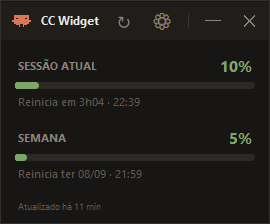
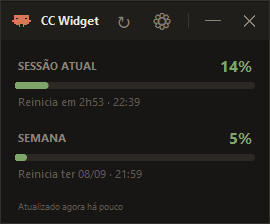
Efeito de carregamento e mais folga no circulo
Ao consultar o /usage a interface passa a mostrar atividade: a seta vira um
spinner (o tkinter nao rotaciona texto, entao a rotacao vem de uma sequencia de
glifos), as barras trocam o valor por um segmento correndo na pista e o anel do
modo mini gira. Os percentuais saem de cena durante a consulta porque deixaram
de valer no instante em que ela comecou.

No caminho apareceu um defeito que existia antes deste commit e so ficou
visivel com a animacao: a thread de trabalho chamava `self.after` para
redesenhar ao terminar. Tkinter nao e seguro para uso concorrente e esse
callback se perdia, deixando a interface presa -- botao girando e valores em
reticencias -- mesmo com os dados novos ja gravados. Agora a thread apenas
baixa `_cli_busy`, e quem encerra o carregamento e o proprio laco da animacao,
na thread da interface. Verificado ponta a ponta: 13% -> carregando -> 14%.

O circulo cresceu de 64 para 88px, com o mascote no dobro do tamanho e folga
nas duas pontas: ele nao encosta mais no anel, nem a hora na base.

diff --git a/ccwidget/ui.py b/ccwidget/ui.py
@@ -30,6 +30,7 @@ from .theme import (
     P,
     level_color,
     render_bar,
+    render_bar_loading,
     render_mascot,
     render_ring,
     set_theme,
@@ -37,9 +38,13 @@ from .theme import (
 
 PAD = 14
 WIDTH = 268
-RING_SIZE = 64
+RING_SIZE = 88
 
 MODES = ("mini", "panel")
+# Quadros do spinner: o tkinter nao rotaciona texto, entao a rotacao vem de
+# uma sequencia de glifos.
+SPINNER = "⠋⠙⠹⠸⠼⠴⠦⠧⠇⠏"
+SPIN_MS = 70
 DAYS = ("seg", "ter", "qua", "qui", "sex", "sáb", "dom")
 
 
@@ -93,19 +98,27 @@ class Ring(tk.Canvas):
         self._image = render_ring(size, None, P["ok"])
         self._image_id = self.create_image(0, 0, image=self._image, anchor="nw")
 
-        # Alturas em fracao do diametro. O percentual e a hora ficam separados
-        # por 31% -- os 19% que davam o espacamento minimo mais 12% de folga,
-        # para a hora nao encostar no numero grande.
-        self._mascot = render_mascot(1, bg=P["bg"])
-        self.create_image(size / 2, size * 0.24, image=self._mascot, anchor="center")
+        # Alturas em fracao do diametro, com folga nas duas pontas: o mascote
+        # nao encosta no anel e a hora nao encosta na base.
+        self._mascot = render_mascot(2, bg=P["bg"])
+        self.create_image(size / 2, size * 0.30, image=self._mascot, anchor="center")
         self._value = self.create_text(
-            size / 2, size * 0.47, text="--", fill=P["fg"],
-            font=("Segoe UI", 12, "bold"),
+            size / 2, size * 0.555, text="--", fill=P["fg"],
+            font=("Segoe UI", 14, "bold"),
         )
         self._reset = self.create_text(
-            size / 2, size * 0.78, text="", fill=P["fg_faint"],
-            font=("Segoe UI", 7),
+            size / 2, size * 0.765, text="", fill=P["fg_faint"],
+            font=("Segoe UI", 8),
         )
+
+    def set_loading(self, phase: float) -> None:
+        """Um quarto de anel girando, no lugar do arco de progresso."""
+        self._image = render_ring(
+            self.size, 25, P["accent"], start=phase % 1.0
+        )
+        self.itemconfigure(self._image_id, image=self._image)
+        self.itemconfigure(self._value, text="···", fill=P["fg_faint"])
+        self.itemconfigure(self._reset, text="")
 
     def set(self, pct: float | None, reset_text: str = "") -> None:
         color = P["ok"] if pct is None else level_color(pct)
@@ -139,6 +152,13 @@ class Bar(tk.Canvas):
         )
         self.itemconfigure(self._image_id, image=self._image)
 
+    def set_loading(self, phase: float) -> None:
+        """Segmento correndo na pista, enquanto o valor novo nao chega."""
+        self._image = render_bar_loading(
+            self.WIDTH, self.HEIGHT, phase, P["accent"]
+        )
+        self.itemconfigure(self._image_id, image=self._image)
+
 
 class Meter(tk.Frame):
     """Titulo + percentual + barra + legenda: o bloco de uma janela de limite."""
@@ -169,6 +189,10 @@ class Meter(tk.Frame):
         )
         self.caption.pack(fill="x")
 
+    def set_loading(self, phase: float) -> None:
+        self.value.configure(text="···", fg=P["fg_faint"])
+        self.bar.set_loading(phase)
+
     def update_values(self, pct: float | None, caption: str) -> None:
         if pct is None:
             self.value.configure(text="--", fg=P["fg_faint"])
@@ -194,6 +218,7 @@ class UsageWidget(tk.Tk):
         self._cli_busy = False
         self._cli_error: str | None = None
         self._next_usage_at: float | None = None
+        self._spin_frame = 0
 
         self._setup_window()
         self._build()
@@ -526,8 +551,41 @@ class UsageWidget(tk.Tk):
             return
         self._cli_busy = True
         self._cli_error = None
-        self._render_footer()
+        self._spin_frame = 0
+        self._animate_loading()
         threading.Thread(target=self._usage_cli_worker, daemon=True).start()
+
+    def _animate_loading(self) -> None:
+        """Enquanto o /usage responde: seta girando e barras indeterminadas.
+
+        A consulta leva alguns segundos, e sem sinal de atividade o clique no
+        botao parece nao ter feito nada. Os valores antigos saem de cena porque
+        deixaram de valer no instante em que a consulta comecou.
+
+        Este laco tambem e quem encerra o carregamento. A thread de trabalho
+        apenas baixa `_cli_busy`: tkinter nao e seguro para uso concorrente, e
+        agendar a volta de la deixava a interface presa no estado de carregando
+        quando o callback se perdia.
+        """
+        if not self._cli_busy:
+            self.refresh_btn.configure(text="↻", fg=P["fg_dim"])
+            self._refresh_now()
+            return
+
+        self._spin_frame += 1
+        phase = (self._spin_frame % 40) / 40
+        self.refresh_btn.configure(
+            text=SPINNER[self._spin_frame % len(SPINNER)], fg=P["accent"]
+        )
+
+        if self.mode == "mini":
+            self.ring.set_loading(phase)
+        else:
+            self.session_meter.set_loading(phase)
+            self.week_meter.set_loading((phase + 0.5) % 1.0)
+            self._render_footer()
+
+        self.after(SPIN_MS, self._animate_loading)
 
     def _usage_cli_worker(self) -> None:
         from .usage_cli import refresh_state
@@ -537,14 +595,13 @@ class UsageWidget(tk.Tk):
         except Exception as exc:
             self._cli_error = str(exc)
         finally:
+            # So isto: quem redesenha e `_animate_loading`, na thread da
+            # interface. Nada de tocar em widgets a partir daqui.
             self._cli_busy = False
-        try:
-            self.after(0, self._refresh_now)
-        except RuntimeError:
-            pass  # janela ja fechada
 
     def _refresh_now(self) -> None:
         self.live = read_state()
+        self.refresh_btn.configure(text="↻", fg=P["fg_dim"])
         self._render()
 
     def _render(self) -> None:
@@ -598,11 +655,8 @@ class UsageWidget(tk.Tk):
         idade do numero -- e isso e melhor dito com o tempo do que com rotulo.
         """
         if self._cli_busy:
-            self.refresh_btn.configure(fg=P["accent"])
             self.footer.configure(text="consultando /usage…", fg=P["fg_dim"])
             return
-
-        self.refresh_btn.configure(fg=P["fg_dim"])
 
         if self._cli_error:
             self.footer.configure(text=f"falhou: {self._cli_error}", fg=P["crit"])

diff --git a/ccwidget/theme.py b/ccwidget/theme.py
@@ -178,6 +178,7 @@ def render_ring(
     arc_color: str,
     outside: str = CHROMA,
     samples: int = 4,
+    start: float = 0.0,
 ) -> tk.PhotoImage:
     """Disco com anel de progresso, suavizado.
 
@@ -187,7 +188,10 @@ def render_ring(
     fundo -- todos internos -- sao misturados normalmente.
     """
     pct = -1.0 if pct is None else min(max(pct, 0.0), 100.0)
-    key = ("ring", size, round(pct), arc_color, P["bg"], P["border"], P["ring_track"])
+    key = (
+        "ring", size, round(pct), round(start, 3), arc_color,
+        P["bg"], P["border"], P["ring_track"],
+    )
     cached = _SHAPE_CACHE.get(key)
     if cached is not None:
         return cached
@@ -229,7 +233,10 @@ def render_ring(
                         t = ((math.atan2(dy, dx) + math.pi / 2) % (2 * math.pi)) / (
                             2 * math.pi
                         )
-                        cor = arc if 0 <= t <= limite else track
+                        # O arco corre de `start` por `limite` de volta, o que
+                        # permite gira-lo durante o carregamento.
+                        rel = (t - start) % 1.0
+                        cor = arc if 0 <= rel <= limite else track
                     else:
                         cor = bg
                     acc[0] += cor[0]
@@ -304,6 +311,77 @@ def render_bar(
             cor = _blend(track, bg, n_track / total)
             if n_fill:
                 cor = _blend(fill, _hex_to_rgb(cor), n_fill / n_track)
+            row.append(cor)
+        rows.append("{" + " ".join(row) + "}")
+
+    image = tk.PhotoImage(width=width, height=height)
+    image.put(" ".join(rows))
+    _SHAPE_CACHE[key] = image
+    return image
+
+
+def render_bar_loading(
+    width: int, height: int, phase: float, color: str, samples: int = 3
+) -> tk.PhotoImage:
+    """Barra indeterminada: um segmento que percorre a pista.
+
+    Usada enquanto o `/usage` responde -- o valor antigo ja nao vale, e o novo
+    ainda nao chegou, entao nao ha percentual honesto para mostrar.
+
+    A fase e quantizada antes de virar chave de cache: sao poucas imagens
+    reaproveitadas em todo ciclo da animacao.
+    """
+    import math
+
+    phase = phase % 1.0
+    key = ("barload", width, height, round(phase, 2), color, P["bg"], P["track"])
+    cached = _SHAPE_CACHE.get(key)
+    if cached is not None:
+        return cached
+
+    raio = height / 2
+    seg = width * 0.3
+    # O segmento entra pela esquerda e sai pela direita.
+    x0 = -seg + (width + seg) * phase
+    x1 = x0 + seg
+
+    bg = _hex_to_rgb(P["bg"])
+    track = _hex_to_rgb(P["track"])
+    fill = _hex_to_rgb(color)
+    step = 1.0 / samples
+    total = samples * samples
+
+    def na_pista(x: float, y: float) -> bool:
+        if x < raio:
+            return math.hypot(x - raio, y - raio) <= raio
+        if x > width - raio:
+            return math.hypot(x - (width - raio), y - raio) <= raio
+        return 0 <= x <= width
+
+    rows = []
+    for py in range(height):
+        row = []
+        for px in range(width):
+            n_track = n_seg = 0
+            for sy in range(samples):
+                y = py + (sy + 0.5) * step
+                for sx in range(samples):
+                    x = px + (sx + 0.5) * step
+                    if not na_pista(x, y):
+                        continue
+                    n_track += 1
+                    if x0 <= x <= x1:
+                        n_seg += 1
+            if not n_track:
+                row.append(P["bg"])
+                continue
+            cor = _blend(track, bg, n_track / total)
+            if n_seg:
+                # Desvanece nas pontas do segmento, para o movimento nao piscar.
+                centro = (x0 + x1) / 2
+                dist = abs(px + 0.5 - centro) / (seg / 2)
+                alpha = max(0.0, 1.0 - dist ** 2) * (n_seg / n_track)
+                cor = _blend(fill, _hex_to_rgb(cor), alpha)
             row.append(cor)
         rows.append("{" + " ".join(row) + "}")
 

diff --git a/README.md b/README.md
@@ -24,7 +24,7 @@ Alterne pelo menu da engrenagem `⚙`.
 
 <table>
 <tr>
-<td align="center" width="35%"><img src="docs/minimizado.png" width="64" alt="Modo minimizado"><br><b>Minimizado</b><br><sub>Círculo flutuante com o mascote,<br>o percentual e o tempo que falta<br>para o reset. Um clique abre o painel</sub></td>
+<td align="center" width="35%"><img src="docs/minimizado.png" width="88" alt="Modo minimizado"><br><b>Minimizado</b><br><sub>Círculo flutuante com o mascote,<br>o percentual e o tempo que falta<br>para o reset. Um clique abre o painel</sub></td>
 <td align="center" width="65%"><img src="docs/painel-escuro.png" width="230" alt="Painel"><br><b>Painel</b><br><sub>Sessão atual e limite semanal,<br>livre na tela</sub></td>
 </tr>
 </table>
@@ -48,6 +48,12 @@ claude -p "/usage"
 O widget roda esse comando, interpreta a saída (percentuais, horários de reset e fuso) e guarda o resultado em `~/.ccwidget/state.json`. É um comando local — não há resposta de modelo, então **não consome tokens**. Como leva alguns segundos para o CLI iniciar, a consulta acontece em intervalo configurável (10 minutos por padrão) e sob demanda pelo menu, nunca no laço da interface.
 
 **O widget não estima consumo por conta própria.** Se ainda não houve consulta, ele mostra `--` e diz isso, em vez de exibir um número inventado.
+
+Enquanto a consulta acontece — são alguns segundos — a seta gira e as barras passam a um segmento correndo na pista. Os valores antigos saem de cena porque deixaram de valer no instante em que a consulta começou:
+
+<div align="center">
+<img src="docs/carregando.png" width="270" alt="Widget durante a consulta ao /usage">
+</div>
 
 O rodapé diz há quanto tempo o número foi lido e quando será a próxima consulta — e fica âmbar se a leitura passou de 20 minutos:
 
